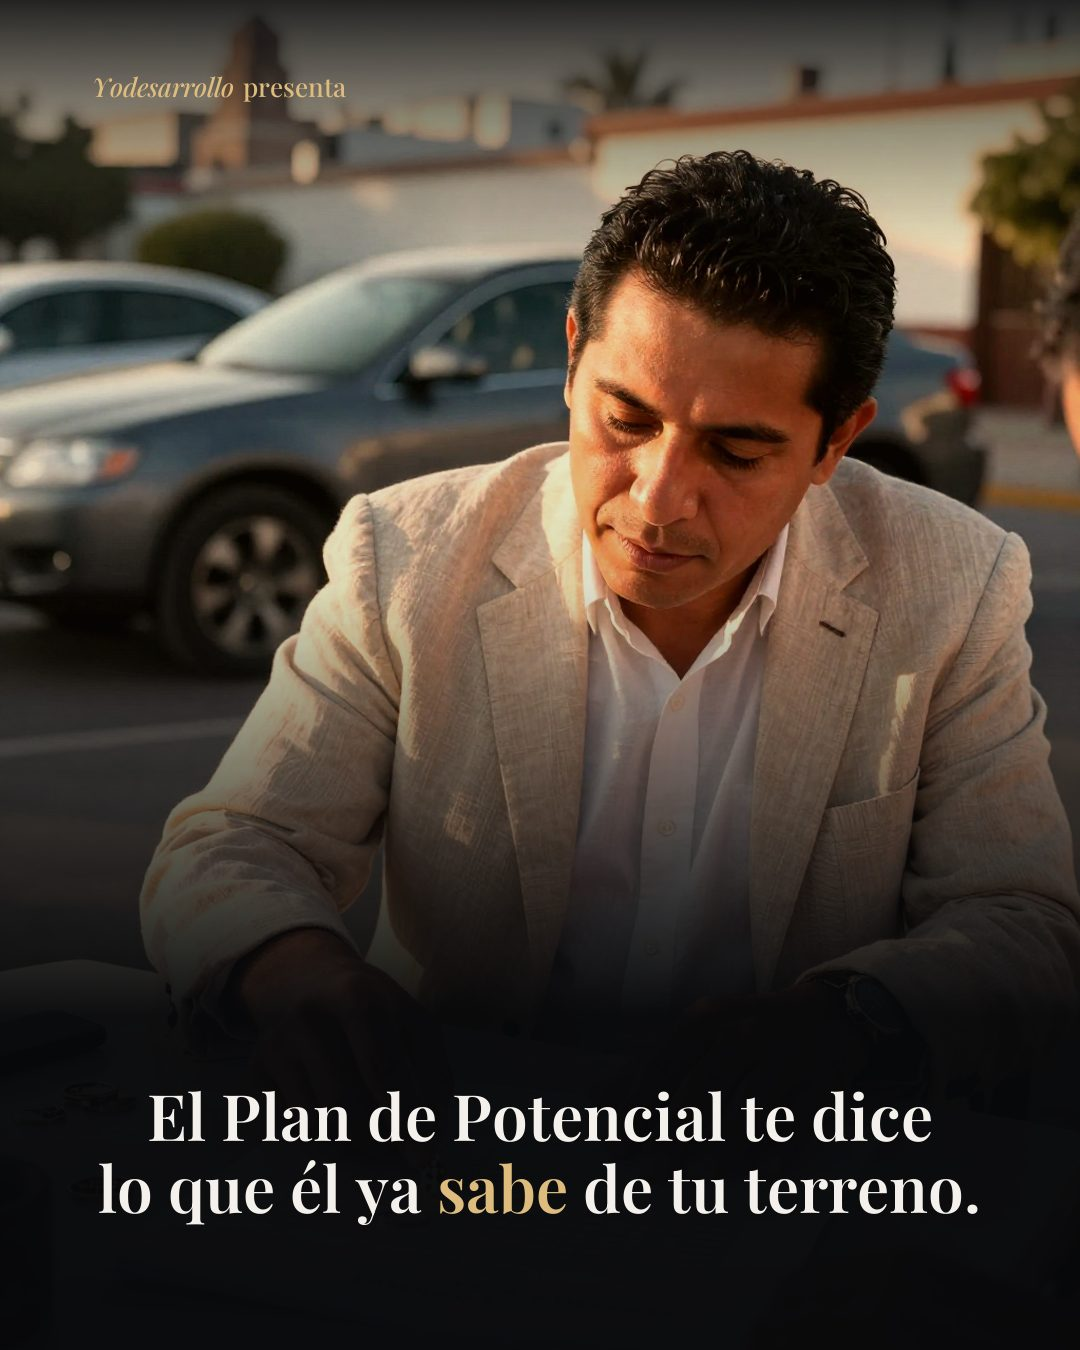
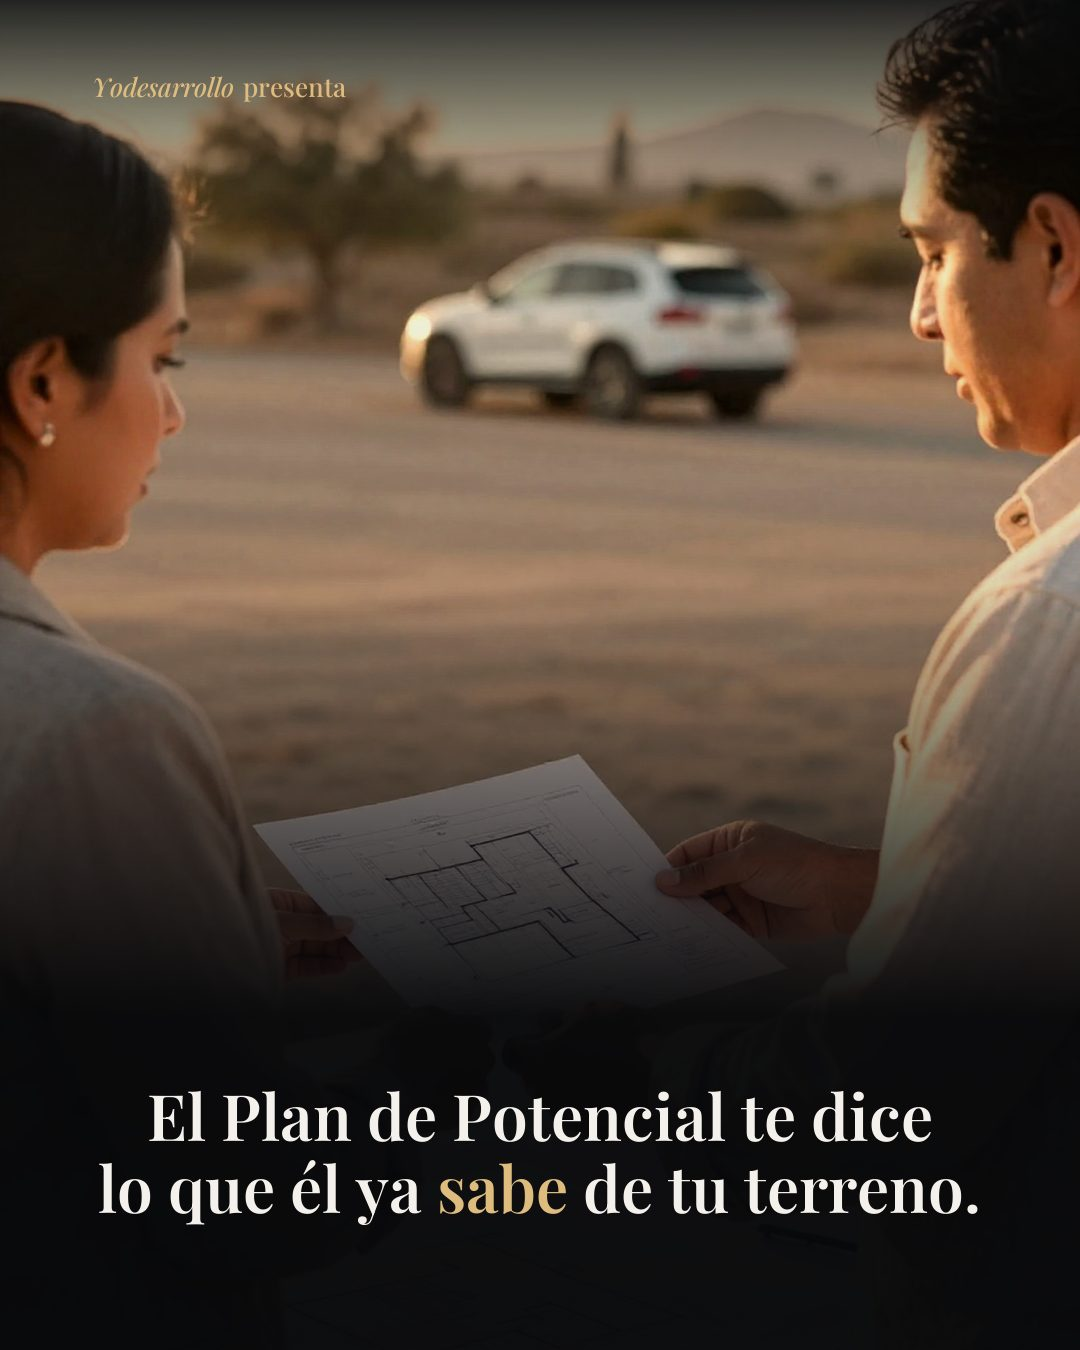
expediente: leer PZ como mapa

diff --git a/index.html b/index.html
@@ -810,7 +810,7 @@ function pasoPendienteDe(nombre){
   return -1;
 }
 function esperaHTML(nombre){
-  const z=(PZ&&PZ.piezas||[]).find(q=>q.pieza===nombre); if(!z||z.estado!=='te espera') return '';
+  const z=PZ[nombre]; if(!z||z.estado!=='te espera') return '';
   const k=pasoPendienteDe(nombre);
   return `<div class="espera-caja"><small>Te espera tu palabra</small><p>${esc(z.siguiente||'Hay una decisión tuya pendiente.')}</p>
     ${k>=0?`<button onclick="irADecidir(${k})">Ir a decidir →</button>`
